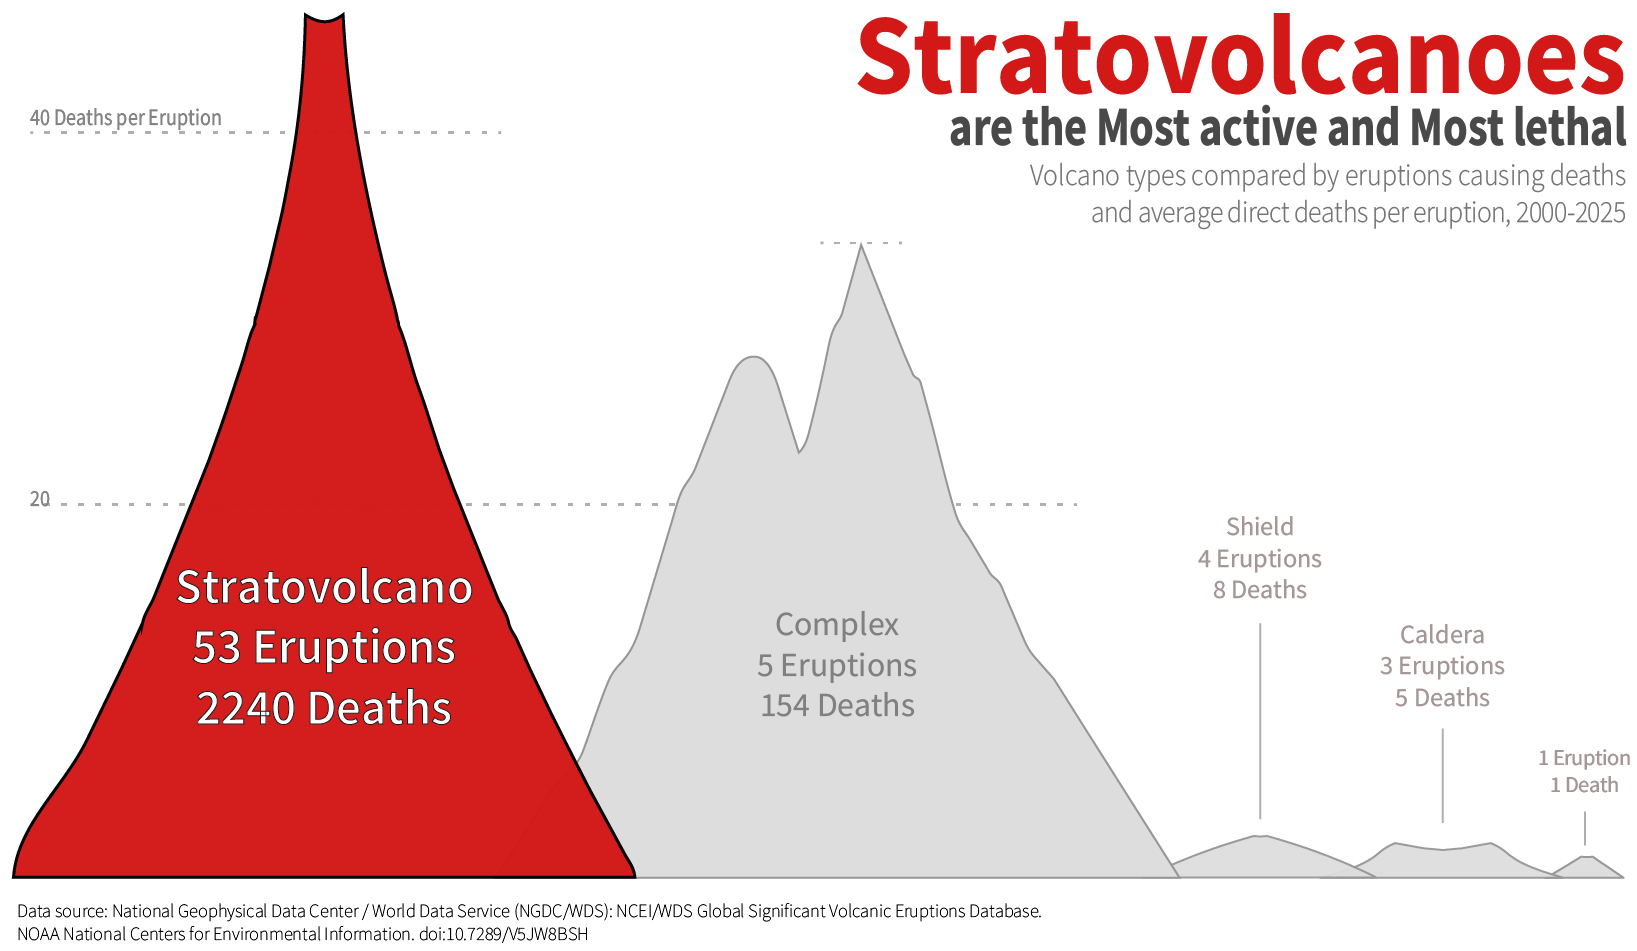
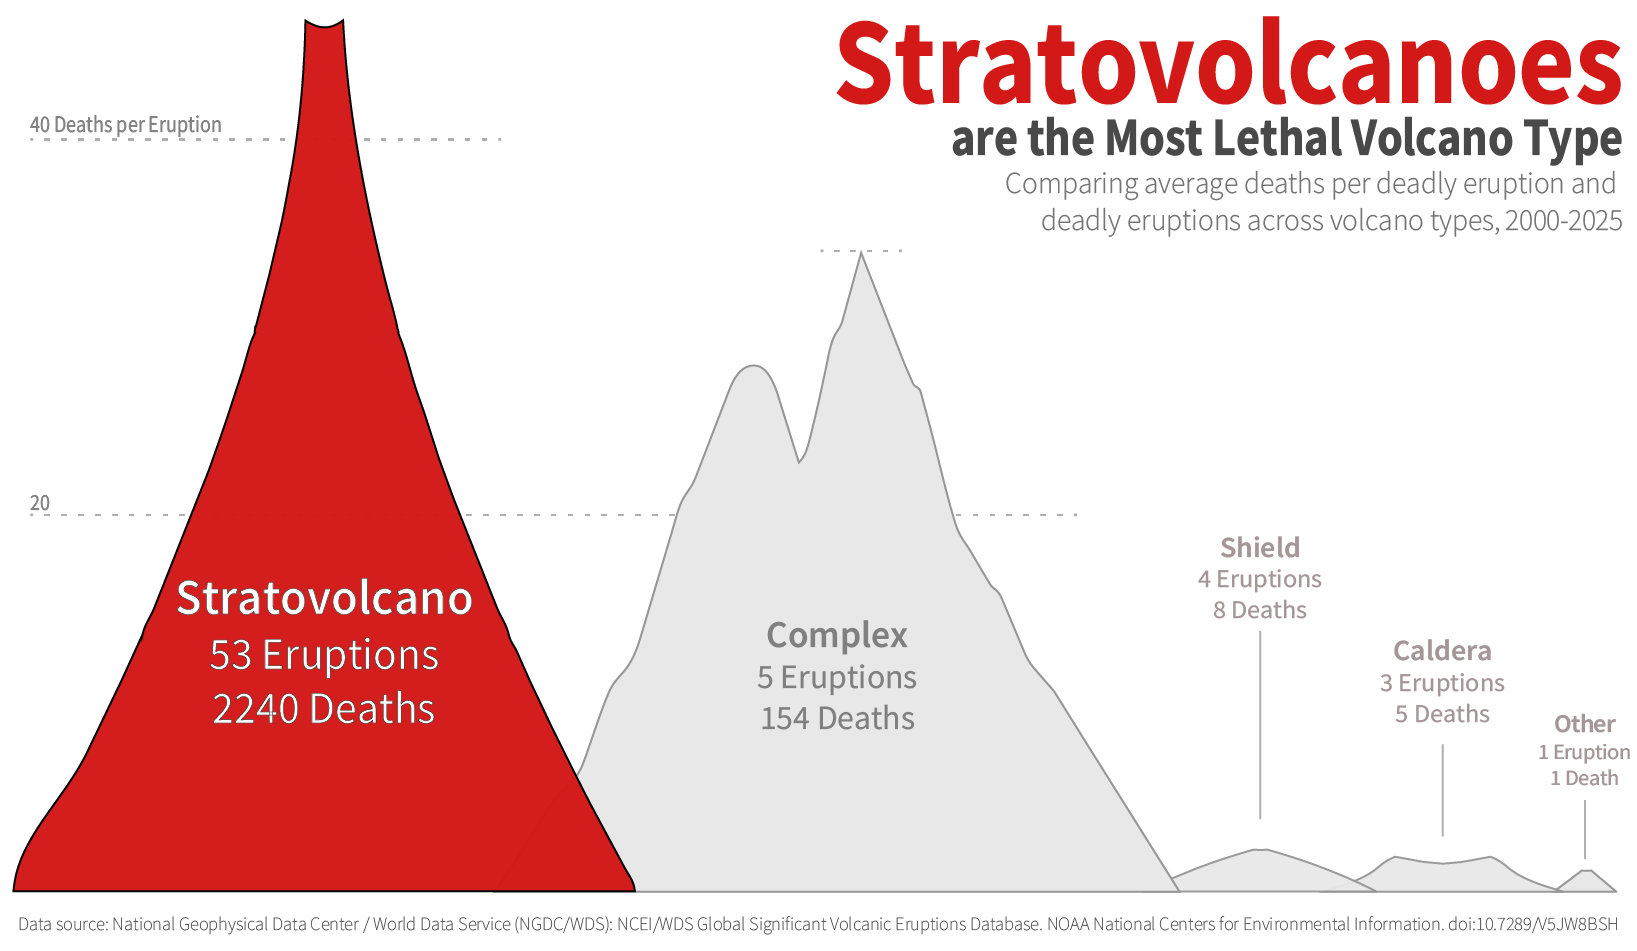
a lot modifications...

diff --git a/Volcano/styles.css b/Volcano/styles.css
@@ -42,10 +42,10 @@ padding-bottom: 0;
 
 .headline {
 margin: 0;
-font-family: "Anton SC", sans-serif;
-font-size: clamp(2.6rem, 4vw, 4.5rem);
+font-family: "Source Sans 3", sans-serif;;
+font-size: clamp(2.6rem, 4.6vw, 5rem);
 line-height: 1.05;
-font-weight: 400;
+font-weight: 900;
 text-align: center;
 letter-spacing: 0.01em;
 max-width: 100%;
@@ -55,7 +55,8 @@ max-width: 100%;
 margin: 2px auto 5px auto;
 padding: 0 20px;
 text-align: center;
-font-family: "Anton SC", sans-serif;
+font-family: "Source Sans 3", sans-serif;
+font-weight: 600;
 font-size: 1.12rem;
 line-height: 1.35;
 letter-spacing: 0.01em;
@@ -72,15 +73,16 @@ font-size: 1.02rem;
 margin: 0 0;
 }
 .attribution {
-font-family: "Anton SC", sans-serif;
+font-family: "Source Sans 3", sans-serif;
 font-size: 1rem;
 letter-spacing: 0.02em;
+font-weight: 600;
 }
 
 hr {
 border: none;
 border-top: 2px solid var(--accent);
-margin: 10px 0;
+margin: 10px 100px;
 }
 
 .prose {
@@ -110,14 +112,12 @@ line-height: 1.45;
 }
 
 .graphic-container {
-margin: 42px auto;
+margin: 0px auto;
 max-width: var(--content-width);
 }
 .graphic-frame {
 margin-top: 12px;
-background: #fafafa;
 padding: 10px;
-border: 1px solid #ececec;
 }
 
 .graphic-frame img {
@@ -157,13 +157,14 @@ text-decoration: underline;
 img {
 max-width: 100%;
 }
+
 .inline-icon {
 display: inline-block;
 width: 1em;
-height: 0.8em;
+height: 0.9em;
 vertical-align: -0.12em;
-margin: 0 0.18em 0 0.12em;
-padding: 0;
+margin: 0 0 0 0;
+padding-bottom: 2px;
 }
 
 .site-footer {
@@ -351,4 +352,43 @@ font-size: 1.45rem;
 .methods p {
 font-size: 1.08rem;
 }
+}
+
+img[alt="Shield volcano icon"] {
+height: 0.6em;
+padding-bottom: 3px;
+}
+
+.top-banner {
+  width: 100vw;
+  margin-left: calc(50% - 50vw);
+  position: relative;  
+}
+
+.top-banner img {
+  width: 100%;
+  height: 55vh;
+  object-fit: cover;
+  display: block;
+}
+
+.top-caption {
+  position: absolute;
+  bottom: 0;
+  left: 0;
+  width: 100%;
+
+  background: rgba(0, 0, 0, 0.95);
+  color: white;
+
+  padding: 14px 32px;
+
+  text-align: right;
+
+  font-size: 1.1rem;
+  letter-spacing: 0.01em;
+}
+
+.icon-word {
+  white-space: nowrap; 
 }

diff --git a/Volcano/index.html b/Volcano/index.html
@@ -11,34 +11,33 @@
     />
     <link rel="stylesheet" href="styles.css" />
     <link rel="preconnect" href="https://fonts.googleapis.com">
-    <link rel="preconnect" href="https://fonts.gstatic.com" crossorigin>
-    <link href="https://fonts.googleapis.com/css2?family=Anton+SC&display=swap" rel="stylesheet">
-    <link rel="preconnect" href="https://fonts.googleapis.com">
-    <link rel="preconnect" href="https://fonts.gstatic.com/" crossorigin>
-    <link href="https://fonts.googleapis.com/css2?family=Fugaz+One&display=swap" rel="stylesheet">
+<link rel="preconnect" href="https://fonts.gstatic.com" crossorigin>
+<link href="https://fonts.googleapis.com/css2?family=Source+Sans+3:ital,wght@0,200..900;1,200..900&display=swap" rel="stylesheet">
 </head>
 <body>
-    <div class="splash-screen" id="splash-screen">
-        <div class="splash-image"></div>
-            <div class="splash-overlay"></div>
+  <div class="top-banner">
 
-            <div class="splash-content">
-            <h1 class="splash-title">Stratovolcano Risk in the 21st Century</h1>
-            <p class="splash-subtitle">Scroll or click to enter</p>
-        </div>
+    <img src="images/merapi.png" 
+        alt="Erupting Mount Merapi in Indonesia">
+
+    <div class="top-caption">
+      Erupting Mt Merapi, Indonesia.
     </div>
-  <article>
-    <div class="container">
-      <header class="header">
+
+  </div>
+  <header class="header">
         <h1 class="headline">Stratovolcano Risk in the 21st Century</h1>
         <p class="dek">
           A global analysis of volcano distribution, volcano types, and country-level concentration of significant eruptions, 2000–2025
         </p>
         <div class="attribution">
           <p>By Yichen Li</p>
-          <p>Final Project, 2026</p>
+          <p>Data 1500 Final Project, 2026</p>
         </div>
       </header>
+  <article>
+    <div class="container">
+      
       <hr />
       <figure class="hero-graphic">
         <img src="images/plot3.png" alt="Global map of volcano distribution with stratovolcanoes highlighted." />
@@ -56,16 +55,19 @@
 
         <p class="prose">
           The analysis moves from a broad global view to a more specific argument by grouping volcanoes into five types:
-          <img class="inline-icon" src="images/strato.png" alt="Stratovolcano icon"> stratovolcano,
-          <img class="inline-icon" src="images/complex.png" alt="Complex volcano icon"> complex volcano,
-          <img class="inline-icon" src="images/caldera.png" alt="Caldera icon"> caldera,
-          <img class="inline-icon" src="images/shield.png" alt="Shield volcano icon"> shield volcano,
+          <img class="inline-icon" src="images/strato.png" alt="Stratovolcano icon"> <b>stratovolcano</b>,
+          <img class="inline-icon" src="images/complex.png" alt="Complex volcano icon"> <b>complex volcano</b>,
+          <img class="inline-icon" src="images/caldera.png" alt="Caldera icon"> <b>caldera</b>,
+          <img class="inline-icon" src="images/shield.png" alt="Shield volcano icon"> <b>shield volcano</b>,
           and
-          <img class="inline-icon" src="images/other.png" alt="Other volcano icon"> other.
+          <img class="inline-icon" src="images/other.png" alt="Other volcano icon"> <b>other</b>.
           The project begins with the worldwide distribution of significant eruptions, then focuses on
-          <img class="inline-icon" src="images/strato.png" alt="Stratovolcano icon"> stratovolcanoes
+          <span class="icon-word">
+          <img class="inline-icon" src="images/strato.png" alt="Stratovolcano icon"> <b>stratovolcanoes</b></span>
           as the most consequential type in the dataset because they combine frequent eruptions with strong human impact. Finally, it examines the countries where significant
-          <img class="inline-icon" src="images/strato.png" alt="Stratovolcano icon"> stratovolcano
+          <span class="icon-word">
+            <img class="inline-icon" src="images/strato.png" alt="Stratovolcano icon"> <b>stratovolcanoes</b>
+          </span>
           eruptions are most concentrated. Together, these three views move from global patterns to volcano type importance and then to country-level concentration.
         </p>
       </div>
@@ -81,9 +83,9 @@
       <div class="copy-width">
         <p class="prose">
         Among the five volcano types in this dataset,
-        <img class="inline-icon" src="images/strato.png" alt="Stratovolcano icon"> stratovolcanoes
+        <img class="inline-icon" src="images/strato.png" alt="Stratovolcano icon"> <b>stratovolcanoes</b>
         stand out most clearly. They account for the largest number of significant eruptions and also have the highest average deaths per eruption. This combination of frequent activity and high lethality makes them more consequential than the other volcano types considered here. In this dataset,
-        <img class="inline-icon" src="images/strato.png" alt="Stratovolcano icon"> stratovolcanoes
+        <img class="inline-icon" src="images/strato.png" alt="Stratovolcano icon"> <b>stratovolcanoes</b>
         are not the most common type but also the most destructive in terms of human impact.
         </p>
       </div>
@@ -100,11 +102,11 @@
       <div class="copy-width">
         <p class="prose">
         The risks associated with
-        <img class="inline-icon" src="images/strato.png" alt="Stratovolcano icon"> stratovolcanoes
+        <img class="inline-icon" src="images/strato.png" alt="Stratovolcano icon"> <b>stratovolcanoes</b>
         are also unevenly distributed across countries. Between 2000 and 2025, Indonesia recorded the highest cumulative number of significant
-        <img class="inline-icon" src="images/strato.png" alt="Stratovolcano icon"> stratovolcano
+        <img class="inline-icon" src="images/strato.png" alt="Stratovolcano icon"> <b>stratovolcanoes</b>
         eruptions among these five countries. This suggests that the threat of
-        <img class="inline-icon" src="images/strato.png" alt="Stratovolcano icon"> stratovolcano
+        <img class="inline-icon" src="images/strato.png" alt="Stratovolcano icon"> <b>stratovolcanoes</b>
         activity is concentrated in specific national contexts rather than shared equally across all volcanic regions. The plot also highlight the two deadliest eruptions of the 21st century: Mayon in the Philippines (1266 deaths), followed by Merapi in Indonesia (367 deaths).
         </p>
       </div>
@@ -139,7 +141,7 @@
       </p>
 
       <p>
-        Image source: <a href="https://education.nationalgeographic.org/resource/volcanoes/" target="_blank" rel="noopener noreferrer">National Geographic Education, “Volcanoes”</a>.
+        Image source: <a href="https://resonate.travel/photo-essay-the-magic-of-javas-mount-merapi-and-everyday-volcanism-in-yogyakarta/" target="_blank" rel="noopener noreferrer">Resonate Travel, “Travellers' Tales”</a>.
       </p>
 
       <p class="footer-credit">